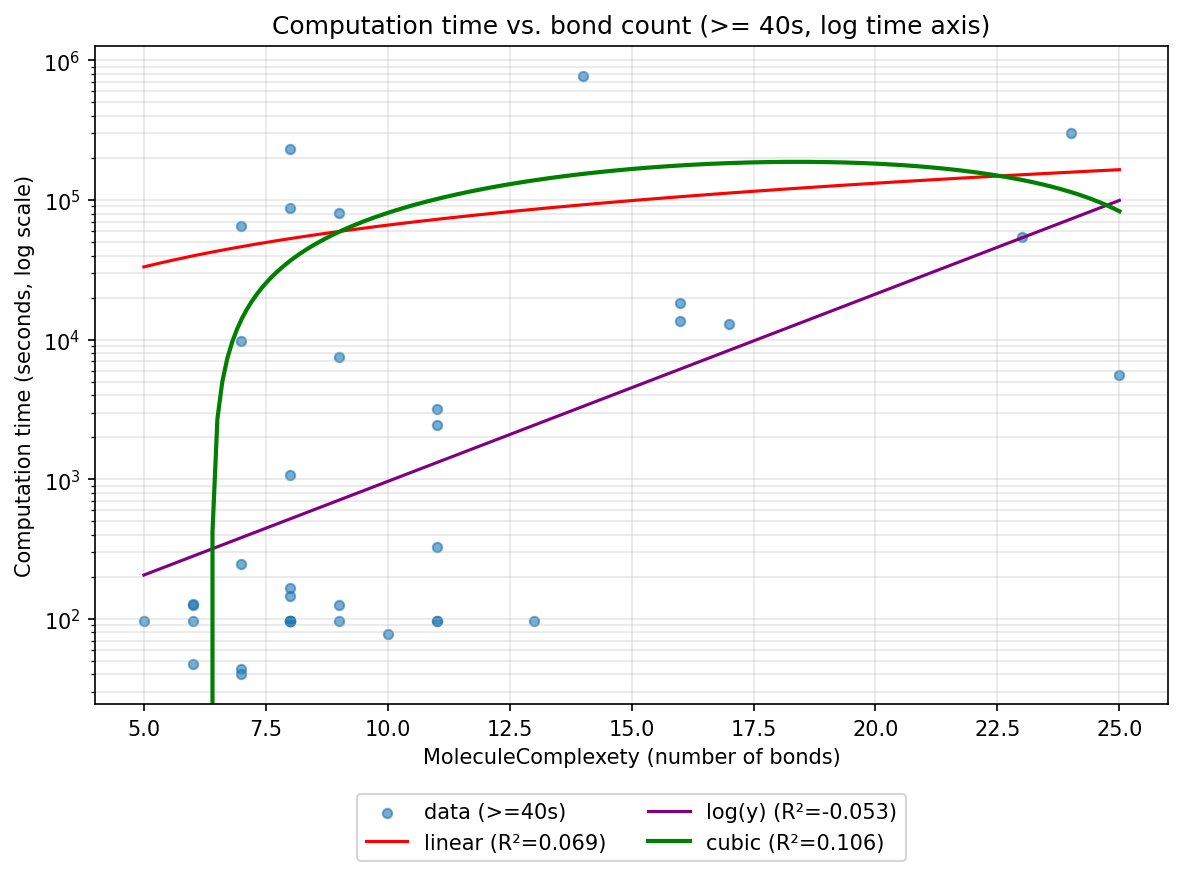
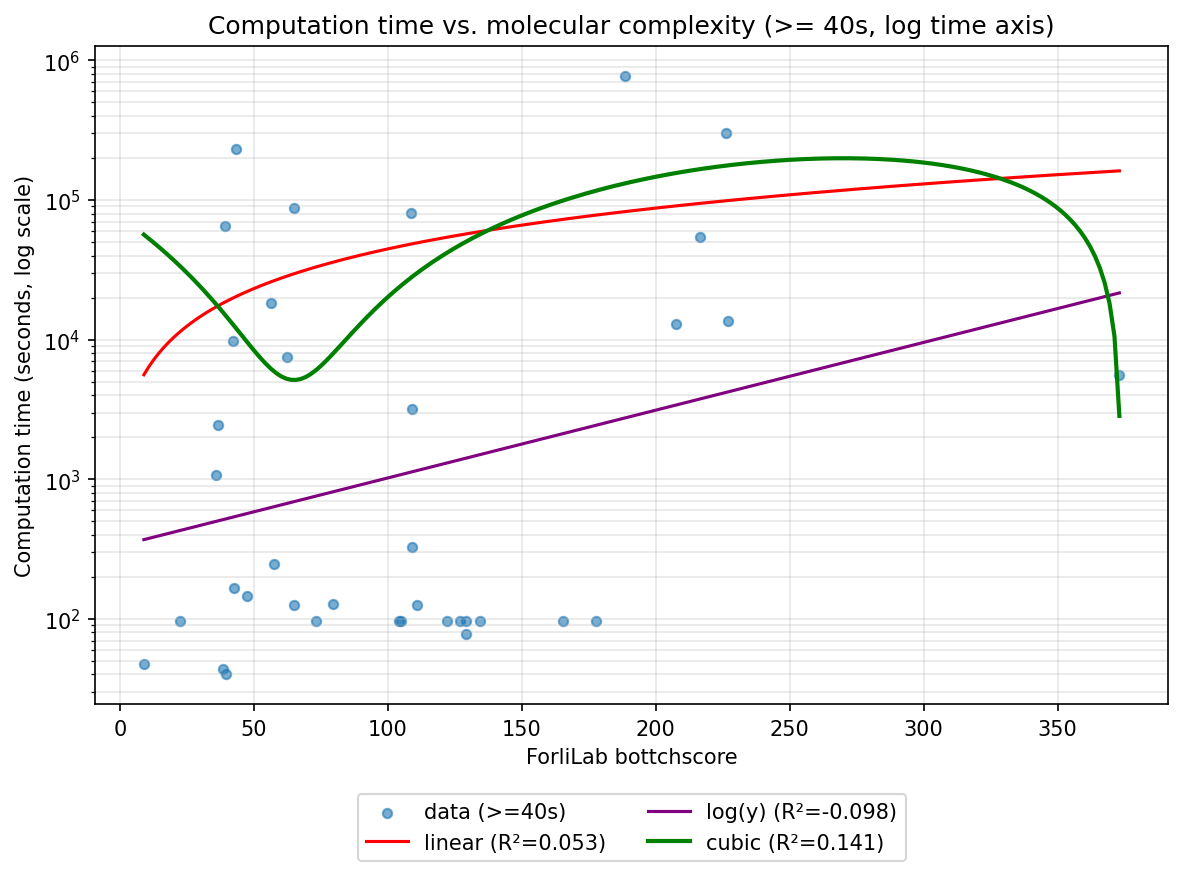
replaced bond count with boettcherscore for molecular complexity

diff --git a/ch4.tex b/ch4.tex
@@ -15,7 +15,14 @@ making further optimization necessary to ensure the feasibility of this approach
 
 \subsection{Visualization of Computation Times}
 
-A regression analysis was performed to model the relationship between molecular complexity and computation time.
+A regression analysis was performed to model the relationship between molecular complexity and computation time. 
+
+Here, molecular complexity refers to Boettcher's complexity measure \cite{Boettcher2016}, which summarizes
+structural intricacy from the molecular graph. It provides a single scalar descriptor that allows molecules
+of different sizes and connectivities to be compared on a common scale. In this analysis, it is used as a
+proxy for fragmentation difficulty, although runtime is still influenced by additional factors such as the
+specific structure of the molecule and the available fragmentation pathways.
+
 The analysis assumes:
 \begin{itemize}[noitemsep,topsep=0pt]
     %\item Linearity of the relationship
@@ -43,8 +50,7 @@ Note that the threshold of 40 seconds was chosen arbitrarily to exclude trivial 
 So while there is a general trend of increasing computation time with molecular complexity,
 the large variance suggests that other factors, 
 such as specific structural features or the particular fragmentation pathways available, 
-also play a significant role in determining computation time. 
-This highlights the need for further optimization.
+also play a significant role in determining computation time. This highlights the need for further optimization.
 
 % model size 
 \subsection{Data Splits}
